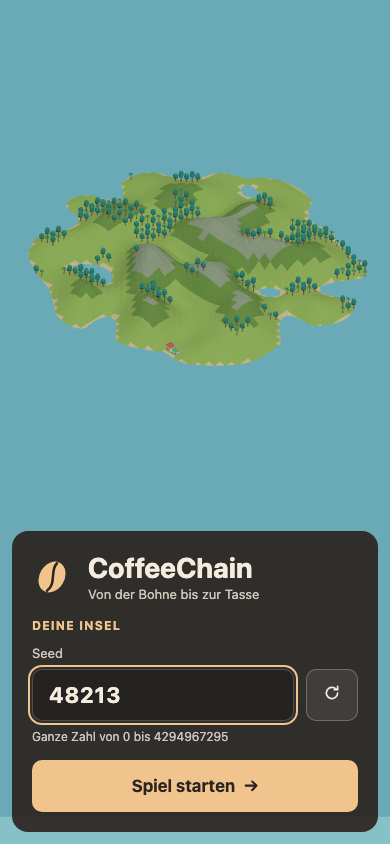
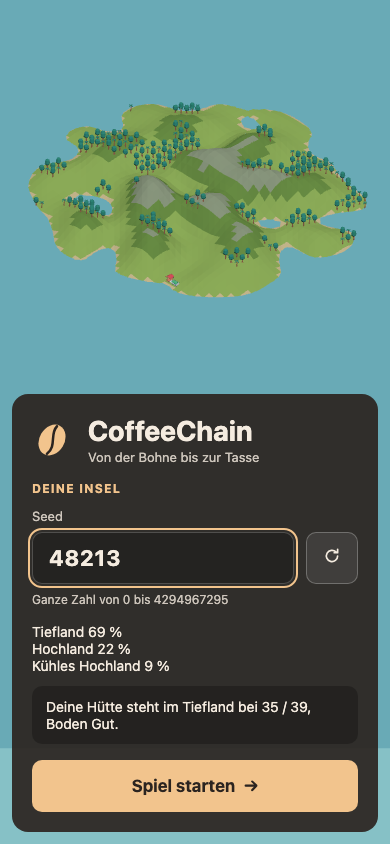
feat(ui): show island facts on the start screen
Add islandFacts helper with zone shares and hut parcel.
Show both under the seed field of the new-game form.

Refs: #3
Claude-Session: https://claude.ai/code/session_01AmdZWvY3xS2WSb8x3NtEvG

diff --git a/src/ui/StartScreen.test.ts b/src/ui/StartScreen.test.ts
@@ -4,6 +4,8 @@ import { createSSRApp } from 'vue'
 import { renderToString } from 'vue/server-renderer'
 import { useStartScreenStore } from '../app/startScreen'
 import { createState } from '../sim/state'
+import { islandFacts } from '../sim/world/facts'
+import de from './i18n/de.json'
 import StartScreen from './StartScreen.vue'
 
 vi.mock('@tauri-apps/api/core', () => ({ isTauri: vi.fn(() => false), invoke: vi.fn() }))
@@ -71,5 +73,40 @@ describe('StartScreen (#3)', () => {
     expect(has(html, 'start-play')).toBe(true)
     expect(has(html, 'start-continue')).toBe(false)
     expect(text(html, 'start-back').trim()).toBe('Zurück zum Spielstand')
+  })
+})
+
+describe('StartScreen island facts (#3)', () => {
+  const zoneLine = (html: string, z: string) => text(html, `start-zone-${z}`).trim()
+
+  it('AC-3: shows the zone shares of the seed', async () => {
+    const { shares } = islandFacts(createState(48213).world)
+    const html = await render((s) => (s.seedText = '48213'))
+    expect(zoneLine(html, 'tiefland')).toBe(`Tiefland ${shares.tiefland} %`)
+    expect(zoneLine(html, 'hochland')).toBe(`Hochland ${shares.hochland} %`)
+    expect(zoneLine(html, 'hochlandKuehl')).toBe(`Kühles Hochland ${shares.hochlandKuehl} %`)
+  })
+
+  it('AC-4: the hut hint follows the seed', async () => {
+    const hint = async (seed: number) => {
+      const { hut } = islandFacts(createState(seed).world)
+      const zone = de.inspector.zones[hut.zone]
+      const soil = de.inspector.soilClasses[hut.soilClass]
+      const html = await render((s) => (s.seedText = String(seed)))
+      expect(text(html, 'start-hut')).toBe(
+        `Deine Hütte steht im ${zone} bei ${hut.x} / ${hut.y}, Boden ${soil}.`,
+      )
+      return text(html, 'start-hut')
+    }
+    expect(await hint(48213)).not.toBe(await hint(7))
+  })
+
+  it('AC-5: no facts for an invalid seed or on the welcome view', async () => {
+    let html = await render((s) => (s.seedText = '4294967296'))
+    expect(has(html, 'start-zone-tiefland')).toBe(false)
+    expect(has(html, 'start-hut')).toBe(false)
+    html = await render((s) => (s.save = createState(7)))
+    expect(has(html, 'start-zone-tiefland')).toBe(false)
+    expect(has(html, 'start-hut')).toBe(false)
   })
 })

diff --git a/src/ui/StartScreen.vue b/src/ui/StartScreen.vue
@@ -1,7 +1,8 @@
 <script setup lang="ts">
-import { nextTick, useTemplateRef } from 'vue'
+import { computed, nextTick, useTemplateRef } from 'vue'
 import { useStartScreenStore } from '../app/startScreen'
 import type { GameState } from '../sim/state'
+import { islandFacts } from '../sim/world/facts'
 import { formatDate } from './date'
 import de from './i18n/de.json'
 import { formatMoney } from './money'
@@ -9,6 +10,17 @@ import { formatMoney } from './money'
 const emit = defineEmits<{ play: [state: GameState] }>()
 const t = de.startScreen
 const screen = useStartScreenStore()
+const zoneIds = ['tiefland', 'hochland', 'hochlandKuehl'] as const
+const facts = computed(() => (screen.preview ? islandFacts(screen.preview.world) : null))
+const hut = computed(() => {
+  const h = facts.value?.hut
+  if (!h) return ''
+  const i = de.inspector
+  return t.hut
+    .replace('{zone}', i.zones[h.zone])
+    .replace('{parcel}', i.position.replace('{x}', String(h.x)).replace('{y}', String(h.y)))
+    .replace('{soil}', i.soilClasses[h.soilClass])
+})
 
 async function play() {
   const state = await screen.play()
@@ -152,6 +164,18 @@ async function back() {
           <p id="start-seed-hint" class="hint" :class="{ invalid: screen.seed === null }">
             {{ t.seedHint }}
           </p>
+          <template v-if="facts">
+            <ul class="zones" :aria-label="t.zoneShares">
+              <li v-for="id in zoneIds" :key="id" :data-testid="`start-zone-${id}`">
+                {{
+                  t.zoneShare
+                    .replace('{zone}', de.inspector.zones[id])
+                    .replace('{pct}', String(facts.shares[id]))
+                }}
+              </li>
+            </ul>
+            <p class="hut" data-testid="start-hut">{{ hut }}</p>
+          </template>
         </section>
         <div class="actions">
           <button
@@ -268,6 +292,19 @@ input[aria-invalid='true'] {
 .hint.invalid {
   color: #f2c48d;
   opacity: 1;
+}
+.zones {
+  margin: 16px 0 0;
+  padding: 0;
+  list-style: none;
+  font-size: 14px;
+}
+.hut {
+  margin: 12px 0 0;
+  padding: 12px 14px;
+  border-radius: 10px;
+  background: rgb(0 0 0 / 25%);
+  font-size: 14px;
 }
 .actions {
   display: flex;

diff --git a/src/sim/world/facts.test.ts b/src/sim/world/facts.test.ts
@@ -1,0 +1,42 @@
+import { describe, expect, it } from 'vitest'
+import { createState } from '../state'
+import { islandFacts } from './facts'
+import type { Parcel, World, Zone } from './types'
+
+function makeWorld(zones: Zone[]): World {
+  const parcels: Parcel[] = zones.map((zone, i) => ({
+    x: i,
+    y: 0,
+    height: 0,
+    zone,
+    fertility: 0,
+    waterRetention: 0,
+    soilQuality: 0,
+    soilClass: i === 0 ? 'gut' : 'karg',
+  }))
+  return { seed: 1, size: zones.length, parcels, start: { x: 0, y: 0 } }
+}
+
+describe('islandFacts (#3)', () => {
+  it('AC-1: shares count land parcels only', () => {
+    const zones: Zone[] = [
+      ...Array<Zone>(6).fill('tiefland'),
+      ...Array<Zone>(3).fill('hochland'),
+      'hochlandKuehl',
+      ...Array<Zone>(5).fill('wasser'),
+    ]
+    expect(islandFacts(makeWorld(zones)).shares).toEqual({
+      tiefland: 60,
+      hochland: 30,
+      hochlandKuehl: 10,
+    })
+  })
+
+  it('AC-2: the hut is the start parcel, and the result is stable', () => {
+    const { world } = createState(48213)
+    const facts = islandFacts(world)
+    const p = world.parcels[world.start.y * world.size + world.start.x]!
+    expect(facts.hut).toEqual({ x: p.x, y: p.y, zone: p.zone, soilClass: p.soilClass })
+    expect(islandFacts(createState(48213).world)).toEqual(facts)
+  })
+})

diff --git a/src/sim/world/facts.ts b/src/sim/world/facts.ts
@@ -1,0 +1,30 @@
+import type { SoilClass, World, Zone } from './types'
+
+export type LandZone = Exclude<Zone, 'wasser'>
+
+export interface IslandFacts {
+  // Whole percent of all land parcels per zone.
+  shares: Record<LandZone, number>
+  hut: { x: number; y: number; zone: Zone; soilClass: SoilClass }
+}
+
+export function islandFacts(world: World): IslandFacts {
+  const count = { tiefland: 0, hochland: 0, hochlandKuehl: 0 }
+  let land = 0
+  for (const { zone } of world.parcels) {
+    if (zone === 'wasser') continue
+    count[zone]++
+    land++
+  }
+  const pct = (n: number) => (land === 0 ? 0 : Math.round((n / land) * 100))
+  const { x, y } = world.start
+  const { zone, soilClass } = world.parcels[y * world.size + x]!
+  return {
+    shares: {
+      tiefland: pct(count.tiefland),
+      hochland: pct(count.hochland),
+      hochlandKuehl: pct(count.hochlandKuehl),
+    },
+    hut: { x, y, zone, soilClass },
+  }
+}
